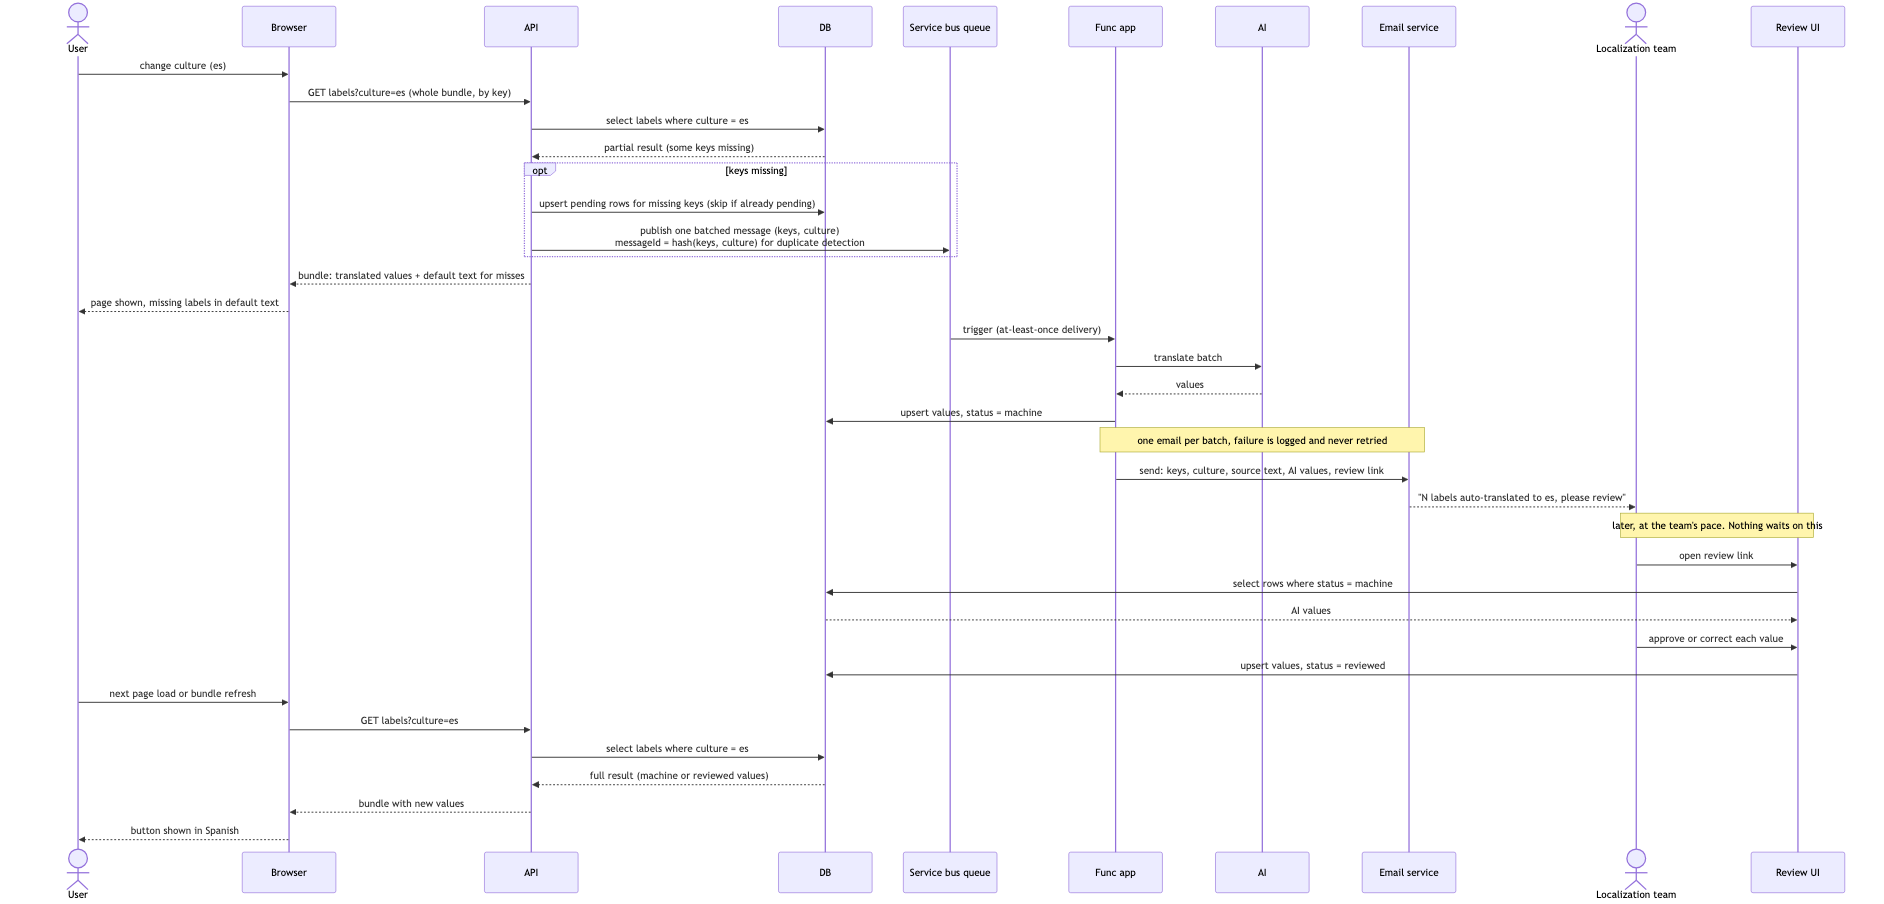
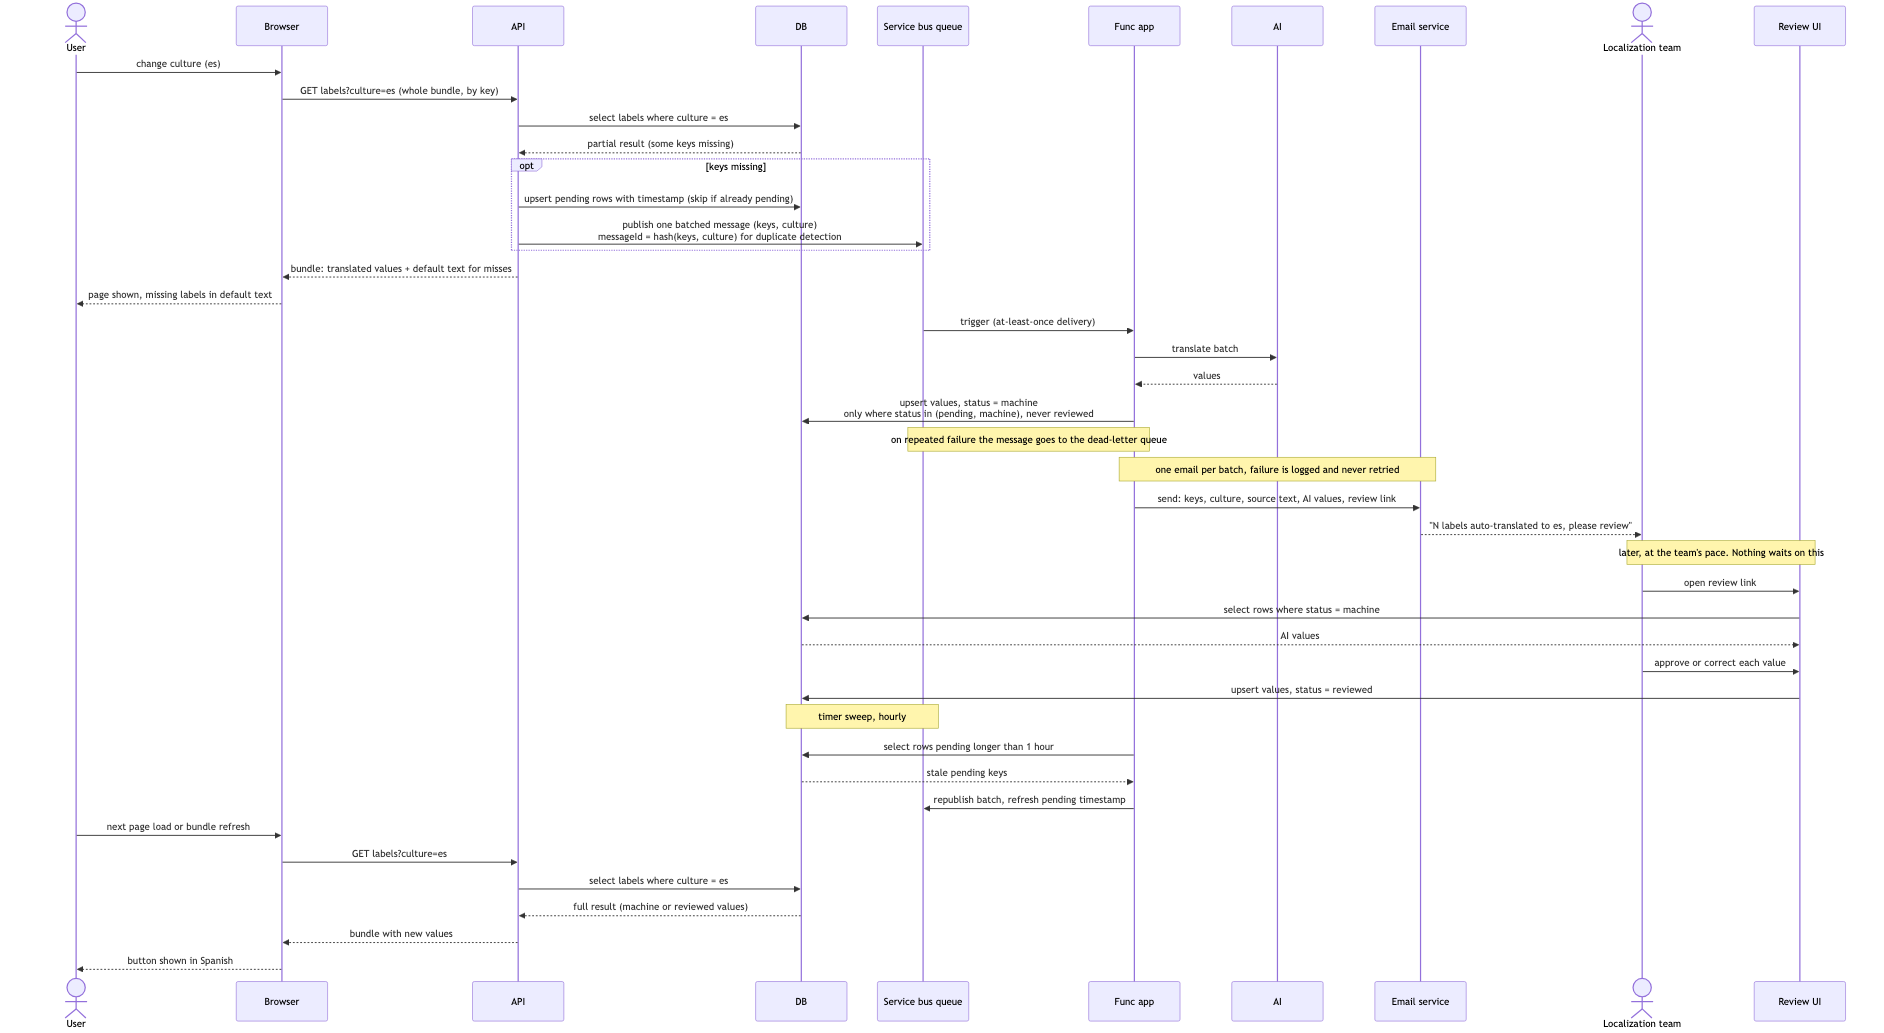
v2: guard AI upsert against reviewed rows, sweep stale pending rows

diff --git a/v2/label-localization-sequence.md b/v2/label-localization-sequence.md
@@ -18,6 +18,12 @@ What changed from v1:
   or at-least-once redelivery would re-run the AI translation and re-charge you.
 - Still a single queue and a single consumer. The email is sent by the Func app
   after the upsert, so it needs nothing new on the bus.
+- The AI upsert is guarded: it only writes rows whose status is `pending` or
+  `machine`. A `reviewed` row is never overwritten by a later AI run, even if a
+  duplicate batch slips past duplicate detection.
+- Pending rows carry a timestamp. A timer-triggered sweep republishes any row
+  pending for more than an hour, so a batch that dead-letters does not leave
+  its keys stuck behind the "already pending" check forever.
 
 ```mermaid
 sequenceDiagram
@@ -38,7 +44,7 @@ sequenceDiagram
     DB-->>API: partial result (some keys missing)
 
     opt keys missing
-        API->>DB: upsert pending rows for missing keys (skip if already pending)
+        API->>DB: upsert pending rows with timestamp (skip if already pending)
         API->>Queue: publish one batched message (keys, culture)<br/>messageId = hash(keys, culture) for duplicate detection
     end
 
@@ -48,7 +54,9 @@ sequenceDiagram
     Queue->>Func: trigger (at-least-once delivery)
     Func->>AI: translate batch
     AI-->>Func: values
-    Func->>DB: upsert values, status = machine
+    Func->>DB: upsert values, status = machine<br/>only where status in (pending, machine), never reviewed
+
+    Note over Queue,Func: on repeated failure the message goes to the dead-letter queue
 
     Note over Func,Email: one email per batch, failure is logged and never retried
     Func->>Email: send: keys, culture, source text, AI values, review link
@@ -60,6 +68,11 @@ sequenceDiagram
     DB-->>Review: AI values
     Team->>Review: approve or correct each value
     Review->>DB: upsert values, status = reviewed
+
+    Note over DB,Queue: timer sweep, hourly
+    Func->>DB: select rows pending longer than 1 hour
+    DB-->>Func: stale pending keys
+    Func->>Queue: republish batch, refresh pending timestamp
 
     User->>Browser: next page load or bundle refresh
     Browser->>API: GET labels?culture=es
